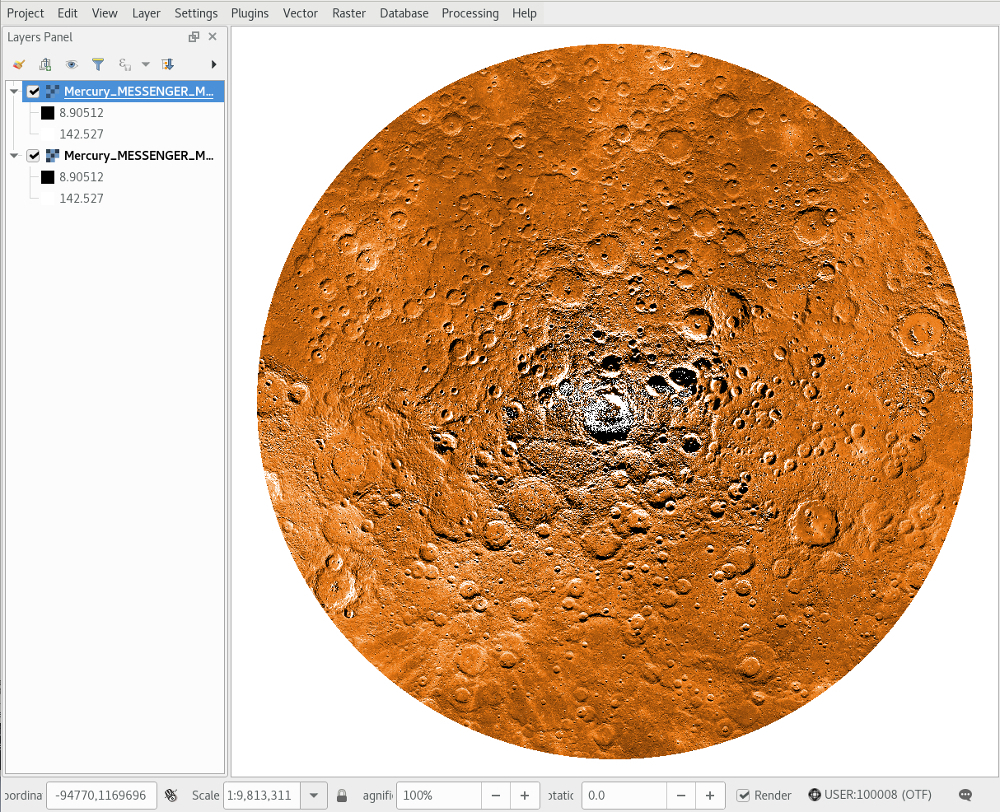
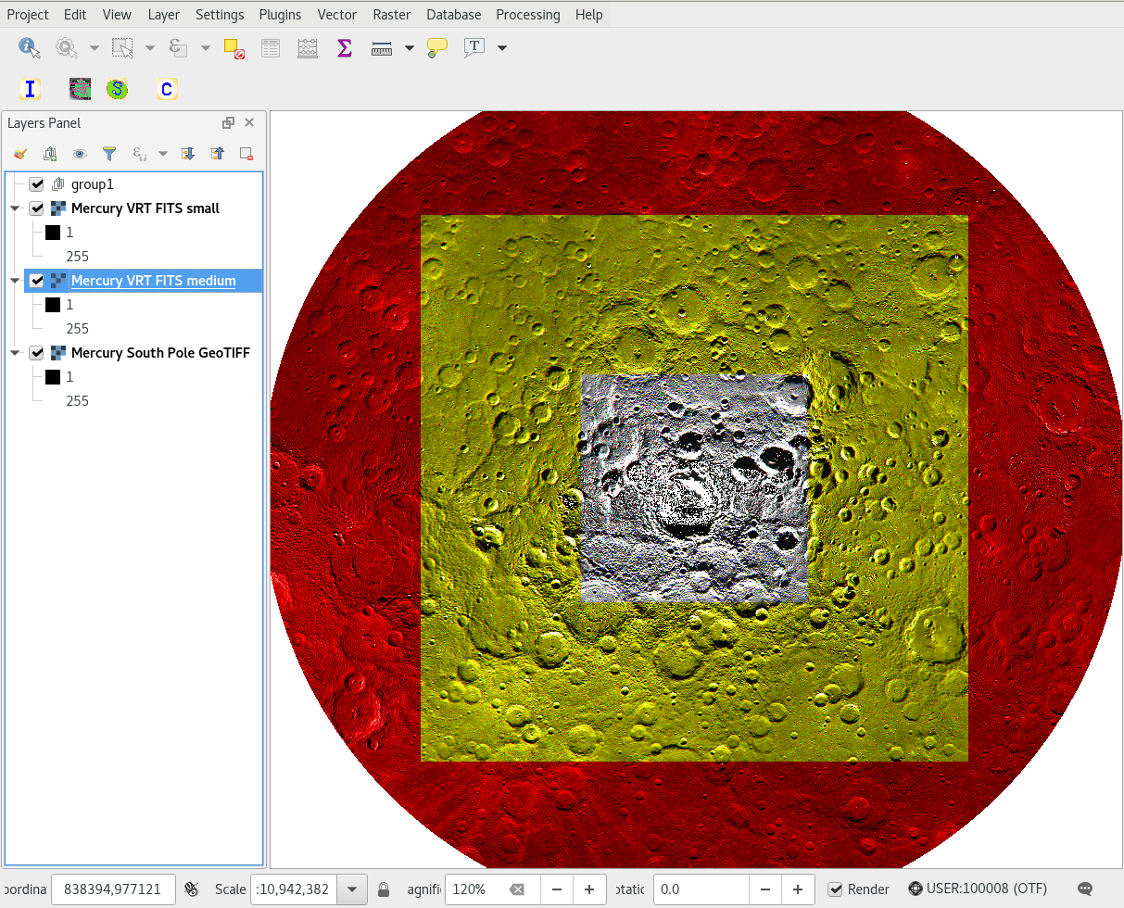
Almost done, only ORIGIN translation is missing.

diff --git a/ess_marmo.tex b/ess_marmo.tex
@@ -600,17 +600,21 @@ GeoTIFF\footnote{http://geotiff.osgeo.org/}
 format, as GeoTIFF make them GIS ready.
 Given some new keywords introduced in FITS and WCS definitions adapted to planetary
 surface, FITS and GeoTIFF are completely interchangeable.
-As an example we have downloaded some global maps from USGS
-PDS Annex\footnote{https://astrogeology.usgs.gov/search} and converted them in FITS.
-We used ds9 to display the FITS image and were able to visualize coordinates in meters
-as in QGIS, a popular open source GIS software, but also in planetary latitude and
-longitude thanks to the alternate coordinate
-description (see figure \ref{fig:ds9qgis}, left side).
+As an example we have downloaded a Mercury polar map from the USGS
+PDS Annex\footnote{https://astrogeology.usgs.gov/search} and converted it in FITS.
+The FITS image has been cropped in two smaller versions using the open source software
+SWarp\footnote{https://www.astromatic.net/software/swarp} \citep{swarp}: SWarp was able to
+automatically manage WCS planetary information.
+We used ds9 to display the three FITS images and were able to correctly align them.
+Linear coordinates in meters are visualized (see figure \ref{fig:ds9qgis}, left side)
+as in QGIS, a popular open source GIS software, thanks to the alternate coordinate
+description.
 \begin{figure}[ht!]
 \centerline{\includegraphics[height=17pc]{ess_marmo2} \includegraphics[height=17pc]{ess_marmo1}}
-\caption{left: Mercury South Pole FITS image displayed in ds9;
-right: GeoTIFF raster (displayed in yellow) and the virtual
-header linked to the FITS raster (displayed in red); the two layers
+\caption{left: Mercury South Pole FITS image displayed in ds9, alternate coordinates in meters
+are displayed;
+right: GeoTIFF raster (displayed in red) and the two virtual haeders
+linked to FITS rasters (displayed in green and blue); the three layers
 are perfectly superposed.
 Mercury image credits: MESSENGER Team, Arizona State University, Johns Hopkins Applied
 Physics Laboratory, Carnegie Science}
@@ -619,7 +623,8 @@ Physics Laboratory, Carnegie Science}
 
 Assuming projected products are distributed in FITS format, a quick method to add GIS
 support for FITS images is to use a GDAL-supported detached header.
-GDAL Virtual Header files simply describe the internal structure of a FITS image, but
+GDAL Virtual Header\footnote{http://www.gdal.org/gdal\_vrttut.html}
+files simply describe the internal structure of a FITS image, but
 also the map projection and body size in a standardized "well known text"
 (WKT) projection string.
 As a result, the FITS raster loaded into QGIS thanks to its corresponding GDAL Virtual
@@ -651,8 +656,7 @@ available in all major linux distribution.
 
 As an example of non projected planetary data we have converted in FITS format some data
 acquired by the imaging spectrometer OMEGA on-board of Mars Express.
-OMEGA unprojected and uncalibrated data (level1b) are distributed by ESA-PSA and PDS
-archives.
+OMEGA unprojected and uncalibrated data (level1b) are distributed by ESA-PSA \citep{BESSE2018131}.
 Their structure is described in the OMEGA Experiment Archive 
 Interface Control Document\footnote{ftp://psa.esac.esa.int/pub/mirror/MARS-EXPRESS/OMEGA/MEX-M-OMEGA-2-EDR-FLIGHT-V1.0/DOCUMENT/EAICD\_OMEGA.PDF}.
 \begin{figure}[ht!]
@@ -720,24 +724,21 @@ translation into GDAL C++ library.
 QGIS is a largely used open source geospatial analysis software.
 It is using GDAL for layer import: QGIS is then already capable to display FITS files,
 making use of a Virtual GDAL header, as described above.
+The complete implementation of FITS metadata in GDAL library is in progress.
 Once implemented in GDAL, FITS will officially become a supported format by QGIS.
 
 In addition to that, a QGIS plugin has been developed\footnote{https://github.com/epn-vespa/VO\_QGIS\_plugin}
-\citep[][in preparation]{Minin} in order to download and display files exposed via EPN-TAP servers.
+\citep{Minin} in order to download and display files exposed via EPN-TAP servers.
 
 \subsection{MATISSE}
 MATISSE\footnote{https://tools.asdc.asi.it/matisse.jsp} (Multi-purpose Advanced Tool
 for the Instruments for the Solar System Exploration) \citep{ZINZI2016} is the webtool
 designed by the Space Science Data Center of the Italian Space Agency (SSDC-ASI) to
 access, visualize and analyze data from solar system exploration missions.
-Currently, it provides access to public data from five different targets (i.e., Mercury,
-Venus, Mars, dwarf planet Ceres and asteroid Vesta) using both data stored on SSDC local
-storage or by querying remote dataset, such as VESPA, Planet Server and NASA JPL and
-can be integrated with other datasets thanks to its modular structure.
-One of th MATISSE 2D outputs is formatted as FITS, projected by interpolating the
-original observations to a grid regularly spaced
-in planetocentric coordinates (i.e., latitude and longitude).
-We used the planetary FITS standard described in this work in order to make the output
+Currently, MATISSE provides access to public data from five different targets (i.e., Mercury,
+Venus, Mars, the dwarf planet Ceres and the asteroid Vesta).
+MATISSE 2D outputs are formatted as FITS, in equirectangular projection and in planetocentric coordinates.
+The planetary FITS standard described in this work has been implemented in MATISSE in order to make the output
 file compliant with most FITS readers, especially DS9 and JS9.
 The files generated by MATISSE could be also opened with standard GIS software (e.g.,
 QGIS, ArcGIS) 
@@ -745,17 +746,15 @@ after being provided as input of the fits2vrt Python library\footnote{https://gi
 whose output is a VRT virtual GDAL header pointing to the FITS file with the appropriate
 projection.
 Thanks to this approach, in the next major release of MATISSE (v2.0, planned to be
-online by the end of 2018) we are planning to make use of JS9 as the standard reader for
+online by the end of 2018) JS9 will be the standard reader for
 the 2D online output of the tool, thus allowing users to perform advanced analysis in
 both 2D and 3D directly inside a web-based environment.
 
 \subsection{Aladin}
-Aladin is both a sky atlas and a portal to access data -- mainly images and
-catalogues -- available through the VO.
-It is able to load FITS files and to display images taking into account various
+Aladin is both a sky atlas and a portal to access data, mainly images and
+catalogues, available through the VO.
+Aladin is able to load FITS files and to display images taking into account various
 WCS projections.
-Like DS9, Aladin is popular and broadly used in the part of the astronomical
-community manipulating images.
 So far it is also the reference generator and visualizer of Hierarchical
 Progressive Survey (HiPS).
 HiPS\footnote{http://www.ivoa.net/documents/HiPS/} is a recommendation endorsed
@@ -777,13 +776,10 @@ are then available for planetary data.}
 
 In the future, Aladin will be able to recognize the FITS keywords defined
 in the present paper (see Tab. \ref{table:proj} and \ref{table:ctype}).
-For example, it will be able to take into account a planet's radii to compute
-distances on the surface of the body.
 Finally, among the WCS projections listed in Tab. \ref{table:proj}, several of
 them are barely used in extrasolar astronomy and are not supported in Aladin yet.
 An effort has been started to revamp and update the code of projections in
 Aladin.
-We expect all projections to be available in a forthcoming release.
 
 \section{Discussion and Perspectives}
 \label{sec:disc}
@@ -802,16 +798,15 @@ We want to stress here that using FITS could be an efficient compromise, reducin
 data format conversions during the processing chain and
 allowing easy conversion for final products following the needed application.
 
-FITS as an open and flexible data and metadata exchange and archiving format, could be
-inserted in the PDS4 data model scheme in order to address the issue of more complex
-metadata and data relationships.
+FITS is an open and flexible data and metadata exchange and archiving format, its use
+in the PDS4 data model scheme would solve the issue of complex
+metadata and data relationships separating data processing and the data archiving processes.
 
-In order to improve interoperability and knowledge sharing between astronomy and
-planetary science, we will soon finalize the integration of FITS specifications in the
-GDAL library.
 In the framework of the VESPA project a review of the available and planned mission data
 archives is ongoing in order to evaluate their insertion in the planetary VO structure
 with a possible on-demand conversion in FITS format.
+The integration of FITS specifications in the GDAL library will be soon finalize with the goal to
+improve data processing efficiency in planetary science.
 
 %%% End of body of article
 
@@ -900,7 +895,7 @@ discussions about TAB projection in FITS.
 
 % AGU does not want a .bib or a .bbl file. Please copy in the contents of your .bbl file here.
 
-\begin{thebibliography}{20}
+\begin{thebibliography}{22}
 \providecommand{\natexlab}[1]{#1}
 \expandafter\ifx\csname urlstyle\endcsname\relax
   \providecommand{\doi}[1]{doi:\discretionary{}{}{}#1}\else
@@ -939,6 +934,26 @@ discussions about TAB projection in FITS.
   O.~{Streicher} (2013), {Astropy: A community Python package for astronomy},
   \textit{Astronomy and Astrophysics}, \textit{558}, A33,
   \doi{10.1051/0004-6361/201322068}.
+
+\bibitem[{\textit{{Bertin} et~al.}(2002)\textit{{Bertin}, {Mellier},
+  {Radovich}, {Missonnier}, {Didelon}, and {Morin}}}]{swarp}
+{Bertin}, E., Y.~{Mellier}, M.~{Radovich}, G.~{Missonnier}, P.~{Didelon}, and
+  B.~{Morin} (2002), {The TERAPIX Pipeline}, in \textit{Astronomical Data
+  Analysis Software and Systems XI}, \textit{Astronomical Society of the
+  Pacific Conference Series}, vol. 281, edited by D.~A. {Bohlender},
+  D.~{Durand}, and T.~H. {Handley}, p. 228.
+
+\bibitem[{\textit{Besse et~al.}(2018)\textit{Besse, Vallat, Barthelemy, Coia,
+  Costa, Marchi, Fraga, Grotheer, Heather, Lim, Martinez, Arviset, Barbarisi,
+  Docasal, Macfarlane, Rios, Saiz, and Vallejo}}]{BESSE2018131}
+Besse, S., C.~Vallat, M.~Barthelemy, D.~Coia, M.~Costa, G.~D. Marchi, D.~Fraga,
+  E.~Grotheer, D.~Heather, T.~Lim, S.~Martinez, C.~Arviset, I.~Barbarisi,
+  R.~Docasal, A.~Macfarlane, C.~Rios, J.~Saiz, and F.~Vallejo (2018), Esa's
+  planetary science archive: Preserve and present reliable scientific data
+  sets, \textit{Planetary and Space Science}, \textit{150}, 131 -- 140,
+  \doi{https://doi.org/10.1016/j.pss.2017.07.013}, enabling Open and
+  Interoperable Access to Planetary Science and Heliophysics Databases and
+  Tools.
 
 \bibitem[{\textit{{Bibring} et~al.}(2005)\textit{{Bibring}, {Langevin},
   {Gendrin}, {Gondet}, {Poulet}, {Berth{\'e}}, {Soufflot}, {Arvidson},
@@ -983,10 +998,10 @@ discussions about TAB projection in FITS.
   \textit{29}, 309--321, \doi{10.1007/BF01228525}.
 
 \bibitem[{\textit{Erard et~al.}(2014)\textit{Erard, Cecconi, Sidaner, Berthier,
-  Henry, Molinaro, Giardino, Bourrel, AndrÃ©, Gangloff, Jacquey, and
+  Henry, Molinaro, Giardino, Bourrel, Andr{\'e}, Gangloff, Jacquey, and
   Topf}}]{ERARDepntap}
 Erard, S., B.~Cecconi, P.~L. Sidaner, J.~Berthier, F.~Henry, M.~Molinaro,
-  M.~Giardino, N.~Bourrel, N.~AndrÃ©, M.~Gangloff, C.~Jacquey, and F.~Topf
+  M.~Giardino, N.~Bourrel, N.~Andr{\'e}, M.~Gangloff, C.~Jacquey, and F.~Topf
   (2014), The epn-tap protocol for the planetary science virtual observatory,
   \textit{Astronomy and Computing}, \textit{7-8}, 52 -- 61,
   \doi{https://doi.org/10.1016/j.ascom.2014.07.008}, special Issue on The
